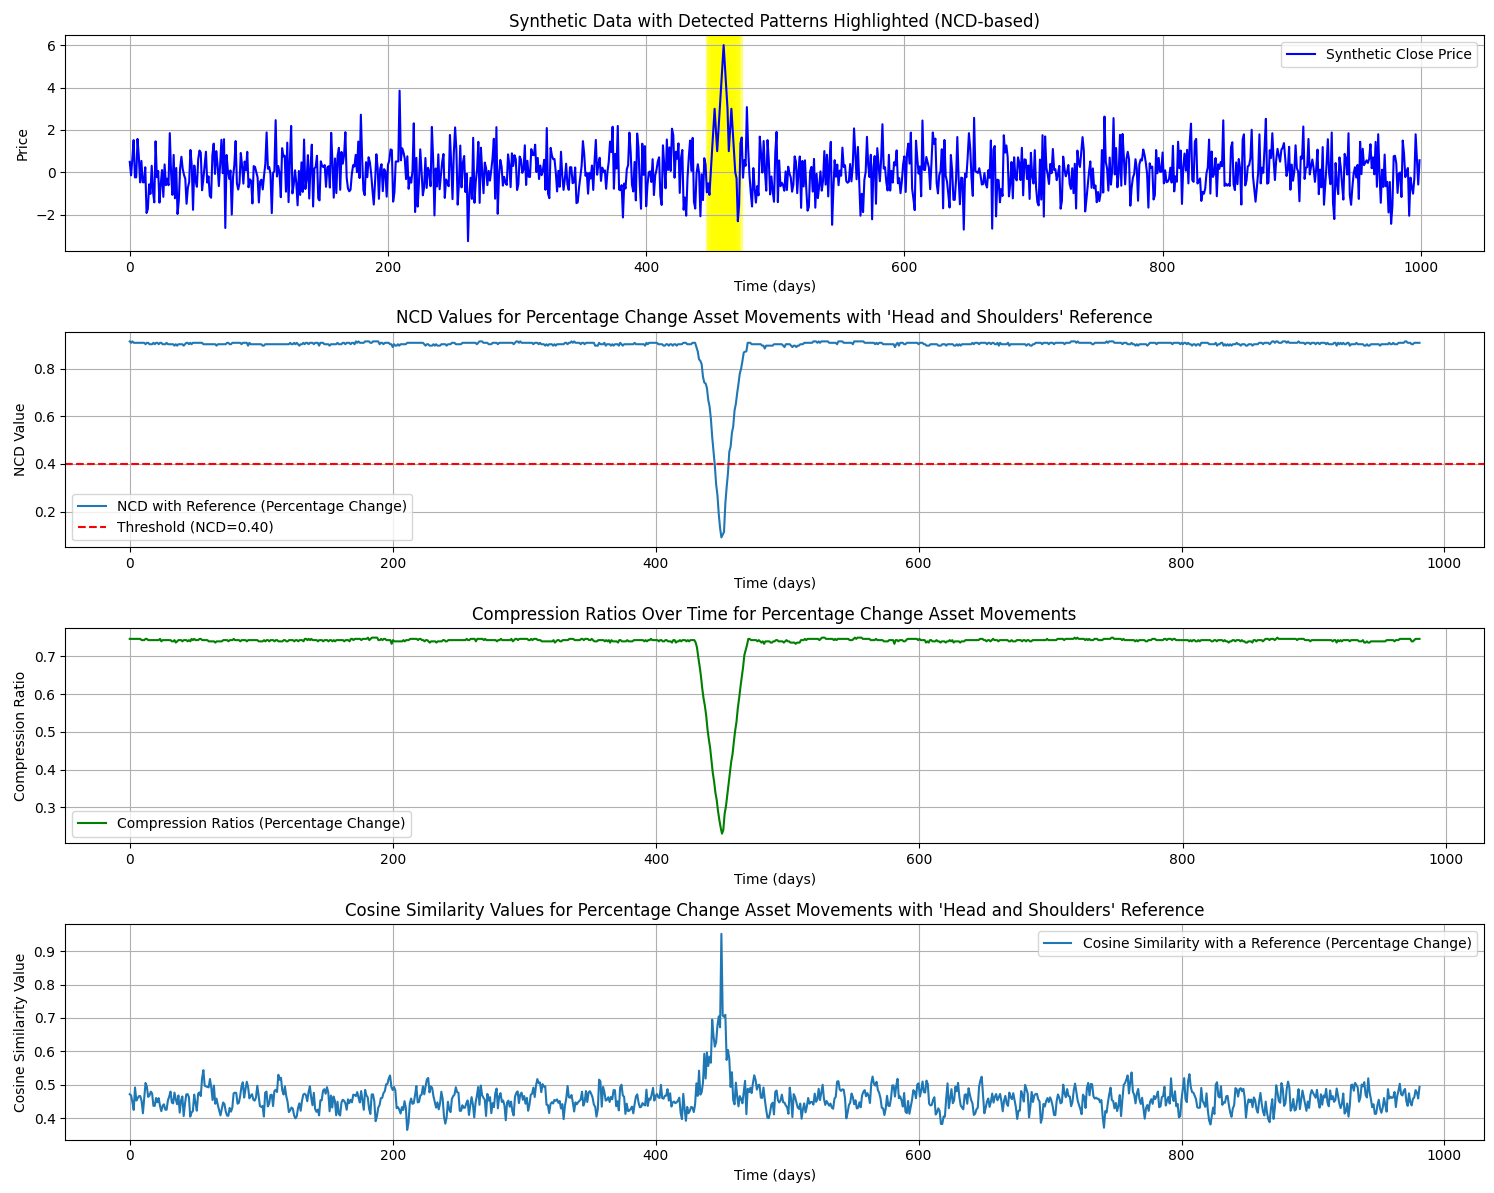
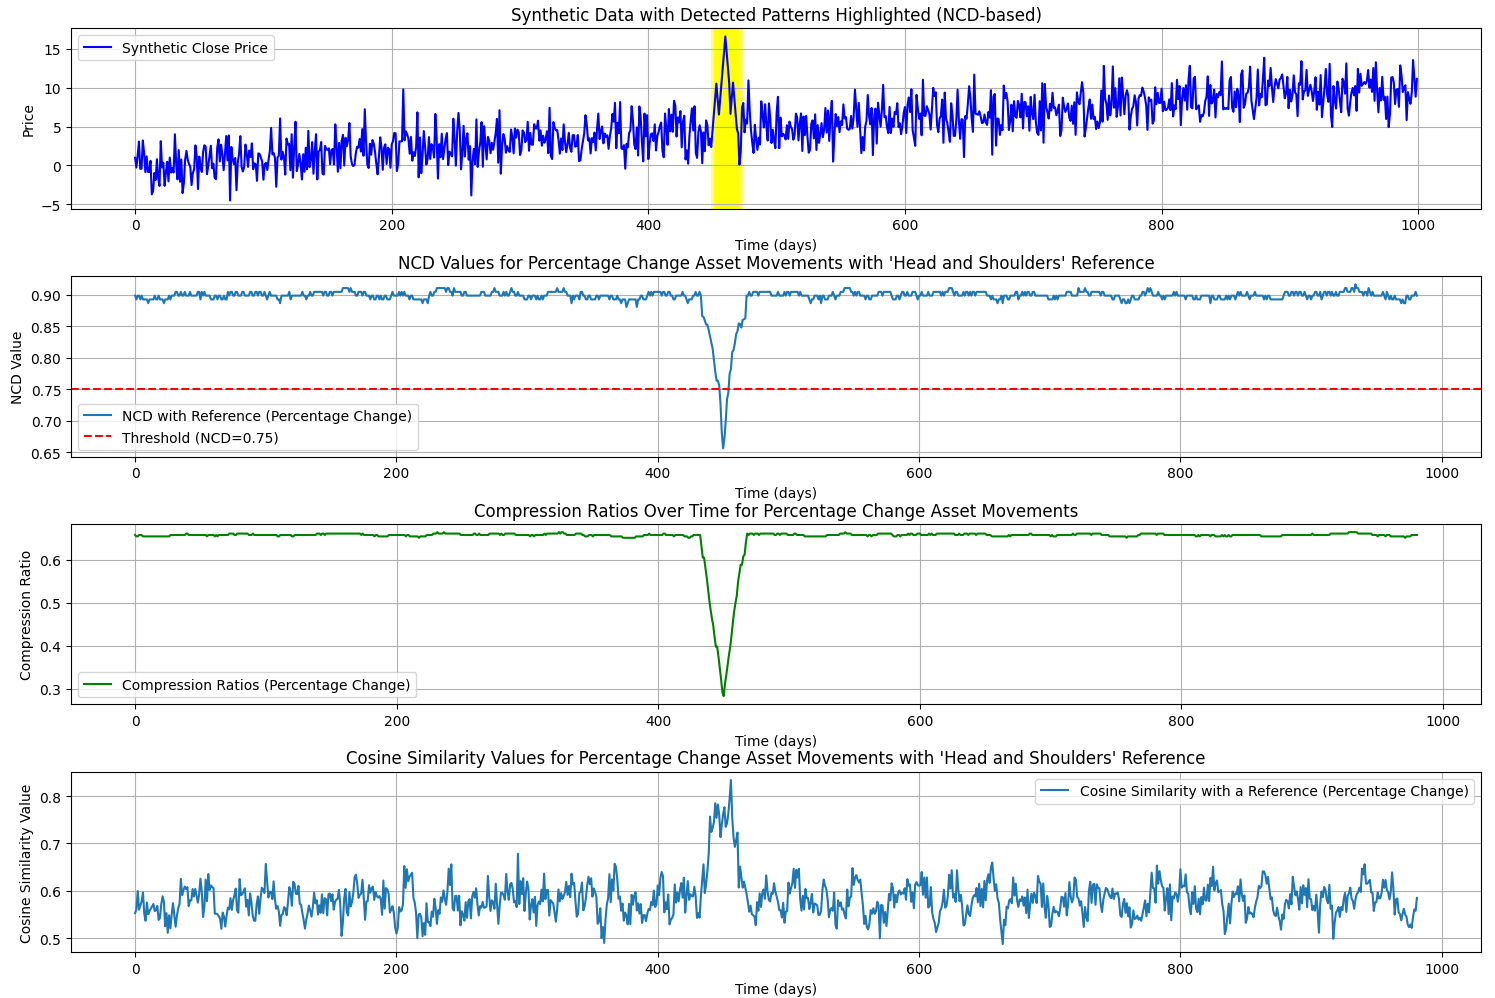
update

Changed region(s): [[0.0, 0.0, 1.0, 1.0], [0.7697, 0.3417, 0.8005, 0.497], [0.585, 0.3417, 0.6158, 0.4659]]

diff --git a/main_knn.py b/main_knn.py
@@ -1,0 +1,112 @@
+import gzip
+
+import numpy as np
+from sklearn.neighbors import KNeighborsClassifier
+import matplotlib.pyplot as plt
+from synthetic_data import generate_synthetic_data, generate_synthetic_data_with_trend
+
+
+# ------------------------ Functions ------------------------
+
+def compute_NCD(x, y, selected_compression):
+    compress_fn = lambda data: len(selected_compression.compress(data))
+    xz = compress_fn(x)
+    yz = compress_fn(y)
+    x_yz = compress_fn(x + y)
+    ncd = (x_yz - min(xz, yz)) / max(xz, yz)
+    return ncd
+
+
+# ------------------------ Data Preparation ------------------------
+
+# Generate synthetic data
+asset_price, asset_percentage_change, all_reference_percentage_change = generate_synthetic_data()
+
+# Compute NCD values for training
+labels = list(all_reference_percentage_change.keys())
+training_data = []
+
+for pattern1 in all_reference_percentage_change.values():
+    row = []
+    for pattern2 in all_reference_percentage_change.values():
+        row.append(compute_NCD(pattern1.tobytes(), pattern2.tobytes(), gzip))
+    training_data.append(row)
+window_size = len(next(iter(all_reference_percentage_change.values())))
+
+# Consolidated code for pattern detection using distance-weighted KNN and visualization
+
+# Train KNN Classifier with k=3 and distance-based weighting
+knn = KNeighborsClassifier(n_neighbors=7, weights='distance')
+knn.fit(training_data, labels)
+
+# Get probability estimates for each window of data using the weighted classifier
+probability_estimates_weighted = []
+
+for i in range(len(asset_percentage_change) - window_size + 1):
+    window = asset_percentage_change[i:i + window_size].tobytes()
+    distances = [compute_NCD(window, pattern.tobytes(), gzip) for pattern in all_reference_percentage_change.values()]
+    probs = knn.predict_proba([distances])[0]
+    probability_estimates_weighted.append(probs)
+
+probability_estimates_weighted = np.array(probability_estimates_weighted)
+# ------------------------ Data Preparation ------------------------
+threshold = 0.156
+# Compute the maximum probability across all reference patterns for each window
+max_probabilities = np.max(probability_estimates_weighted, axis=1)
+# Get the label of the detected pattern based on maximum probability
+detected_labels = []
+for probs in probability_estimates_weighted:
+    if max(probs) > threshold:
+        detected_label = labels[np.argmax(probs)]
+        detected_labels.append(detected_label)
+    else:
+        detected_labels.append("unclassified")
+
+# ------------------------ Data Preparation ------------------------
+
+# Determine the x-axis limits for consistency across plots
+x_min = 0
+x_max = len(asset_price)
+
+# Visualization with consistent x-axis limits
+fig, axes = plt.subplots(4, 1, figsize=(12, 15), sharex=True)
+
+# Plot the asset price with detected patterns highlighted based on max probability
+axes[0].plot(asset_price, label='Asset Price', color='blue')
+for i, prob in enumerate(max_probabilities):
+    if prob > threshold:  # If max probability is greater than 0.5, highlight the pattern
+        axes[0].axvspan(i, i + window_size, color='red', alpha=0.2)
+axes[0].set_xlim(x_min, x_max)
+axes[0].set_title('Asset Price with Detected Patterns')
+axes[0].set_ylabel('Price')
+axes[0].legend()
+
+# Plot probability estimates for all reference patterns on a single subplot
+for i, label in enumerate(labels):
+    axes[1].plot(range(window_size + 1, len(asset_price) + 1), probability_estimates_weighted[:, i], label=f'{label}')
+axes[1].set_xlim(x_min, x_max)
+axes[1].set_title('Probability Estimates for Each Reference vs. Time (Weighted KNN)')
+axes[1].set_ylabel('Probability')
+axes[1].legend()
+
+# Plot the maximum probability across all references for each window and annotate with detected label
+axes[2].plot(range(window_size + 1, len(asset_price) + 1), max_probabilities, label='Max Probability', color='green')
+for i, (prob, label) in enumerate(zip(max_probabilities, detected_labels)):
+    if prob > threshold:  # If max probability is significant, annotate with label
+        axes[2].annotate(label, (i + window_size, prob), fontsize=8, alpha=0.7, ha='center')
+axes[2].set_xlim(x_min, x_max)
+axes[2].set_title('Maximum Probability vs. Time (Weighted KNN)')
+axes[2].set_ylabel('Probability')
+axes[2].legend()
+
+# Plot the label of the detected pattern
+axes[3].scatter(range(window_size + 1, len(asset_price) + 1), detected_labels, label='Detected Pattern', color='blue',
+                marker='o')
+axes[3].set_xlim(x_min, x_max)
+axes[3].set_title('Detected Pattern vs. Time')
+axes[3].set_ylabel('Pattern Label')
+axes[3].set_xlabel('Time')
+axes[3].legend()
+
+plt.tight_layout()
+plt.show()

diff --git a/synthetic_data.py b/synthetic_data.py
@@ -17,11 +17,11 @@ def generate_variable_head_and_shoulders(freq_multiplier=1.0, amplitude_multipli
     return interpolated_pattern * amplitude_multiplier
 
 
-def convert_to_percentage_change(data):
+def convert_to_difference(data):
     percentage_change = []
     for i in range(1, len(data)):
         if data[i - 1] != 0:
-            percentage_change.append((data[i] - data[i - 1]) / data[i - 1])
+            percentage_change.append((data[i] - data[i - 1]))
         else:
             percentage_change.append(0)
     return np.array(percentage_change)
@@ -42,11 +42,47 @@ additional_patterns = {
 # Merge the original and additional reference patterns
 all_reference_patterns = {
     "Original": generate_accurate_head_and_shoulders(),
-    # **additional_patterns
+    **additional_patterns
 }
 
 
 def generate_synthetic_data_with_trend():
+    np.random.seed(42)  # for reproducibility
+
+    # 1. Random Walk with Drift
+    drift = 0.02  # slight upward trend
+    random_walk = [0]
+    for i in range(1, 1000):
+        movement = drift + 0.3 * np.random.randn()  # reducing the randomness to make the pattern more discernible
+        value = random_walk[-1] + movement
+        random_walk.append(value)
+
+    # 2. Varying Volatility but reduced to ensure the pattern is discernible
+    volatilities = 0.3 * (np.abs(np.sin(np.linspace(0, 10, 1000))) + 0.5)
+    noise = np.random.randn(1000) * volatilities
+
+    # Combine the random walk and noise
+    asset_price = np.array(random_walk) + noise
+
+    # 3. Embed the "Head and Shoulders" pattern in a predefined location
+    pattern = all_reference_patterns['Original']
+    embed_start = 450
+    embed_end = embed_start + len(pattern)
+    asset_price[embed_start:embed_end] = pattern + asset_price[embed_start:embed_end]
+
+    # 4. Autoregressive Component
+    for i in range(1, len(asset_price)):
+        asset_price[i] += 0.4 * asset_price[i - 1]
+
+    # Convert to percentage change representation
+    asset_percentage_change = convert_to_difference(asset_price)
+    all_reference_percentage_change = {label: convert_to_difference(pattern) for label, pattern in
+                                       all_reference_patterns.items()}
+
+    return asset_price, asset_percentage_change, all_reference_percentage_change
+
+
+def generate_synthetic_data():
     # Generate synthetic data with embedded "Head and Shoulders" pattern
     np.random.seed(42)  # for reproducibility
 
@@ -60,32 +96,18 @@ def generate_synthetic_data_with_trend():
     noise = np.random.randn(1000)
 
     # Combine trend and noise
-    asset_price = trend + noise
+    asset_price = noise
 
     # Introduce the "Head and Shoulders" pattern
     embed_start = 450
     embed_end = embed_start + window_size
-    asset_price[embed_start:embed_end] += pattern
+    asset_price[embed_start:embed_end] = pattern
+    asset_price += trend + noise
 
     # Convert to percentage change representation
-    asset_percentage_change = convert_to_percentage_change(asset_price)
-    all_reference_percentage_change = {label: convert_to_percentage_change(pattern) for label, pattern in
+    asset_percentage_change = convert_to_difference(asset_price)
+    all_reference_percentage_change = {label: convert_to_difference(pattern) for label, pattern in
                                        all_reference_patterns.items()}
 
     return asset_price, asset_percentage_change, all_reference_percentage_change
 
-
-def generate_synthetic_data():
-    # Generate synthetic data with embedded "Head and Shoulders" pattern
-    np.random.seed(42)  # for reproducibility
-    asset_price = np.random.randn(1000)
-    embed_start = 450
-    embed_end = embed_start + len(generate_accurate_head_and_shoulders())
-    asset_price[embed_start:embed_end] = generate_accurate_head_and_shoulders()
-
-    # Convert Stock E and all reference patterns to the percentage change representation
-    asset_percentage_change = convert_to_percentage_change(asset_price)
-    all_reference_percentage_change = {label: convert_to_percentage_change(pattern) for label, pattern in
-                                       all_reference_patterns.items()}
-
-    return asset_price, asset_percentage_change, all_reference_percentage_change

diff --git a/main.py b/main.py
@@ -33,7 +33,7 @@ plt.figure(figsize=(15, 12))
 # Subplot 1: Synthetic close price data with NCD-based detection highlighted
 plt.subplot(4, 1, 1)
 plt.plot(asset_price, label="Synthetic Close Price", color='blue')
-threshold = 0.4
+threshold = 0.75
 for i, ncd in enumerate(NCD):
     if ncd < threshold:
         plt.axvspan(i + 1, i + window_size + 1, color='yellow', alpha=0.4)  # +1 due to percentage change representation
